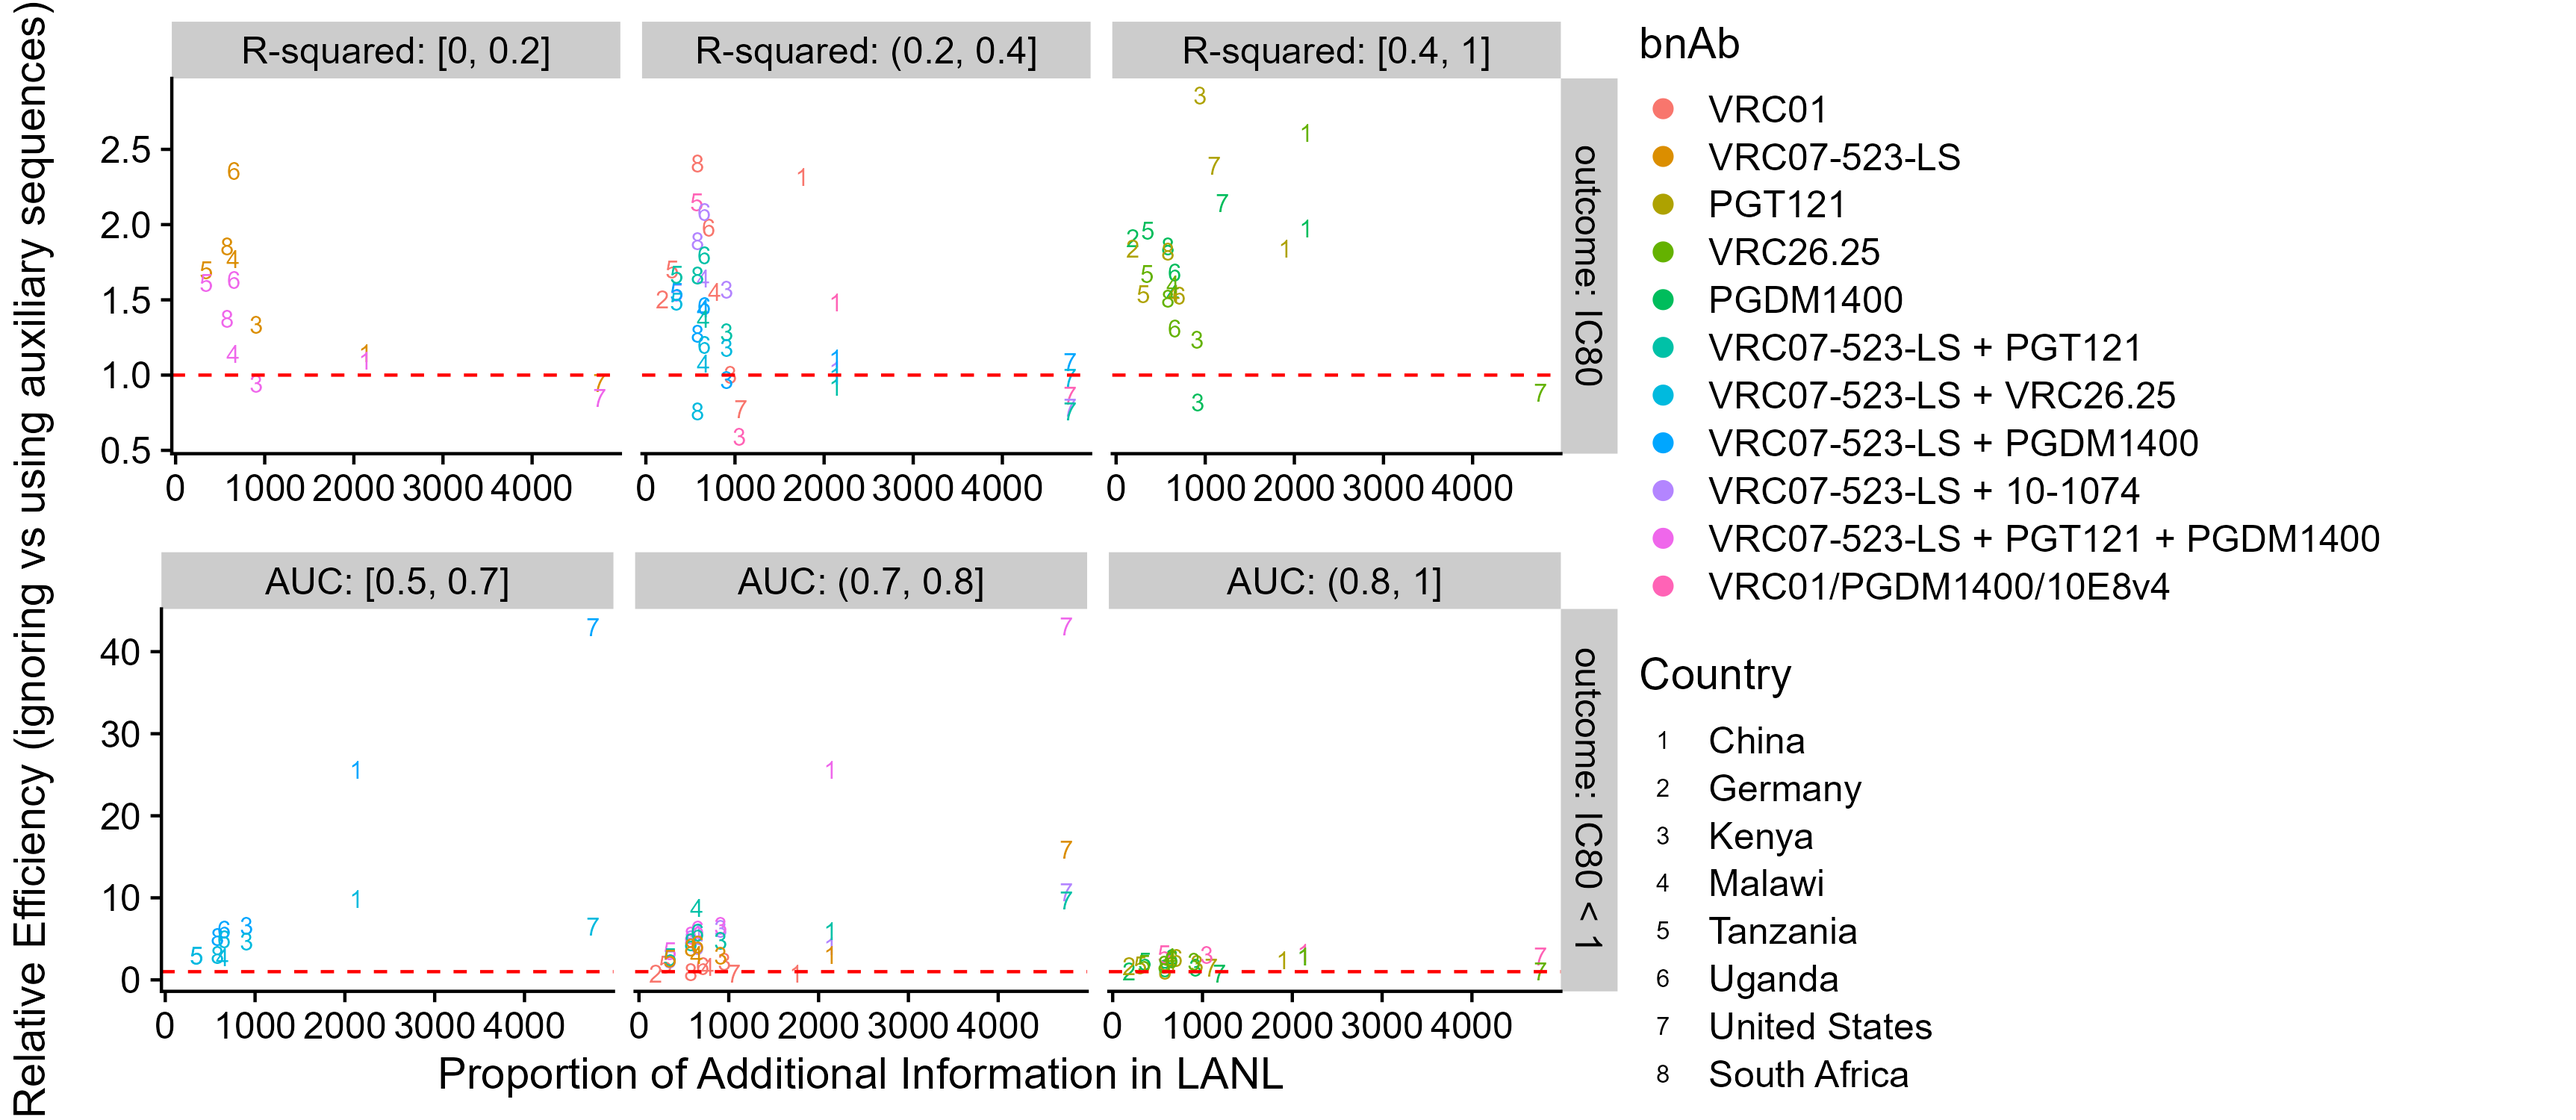
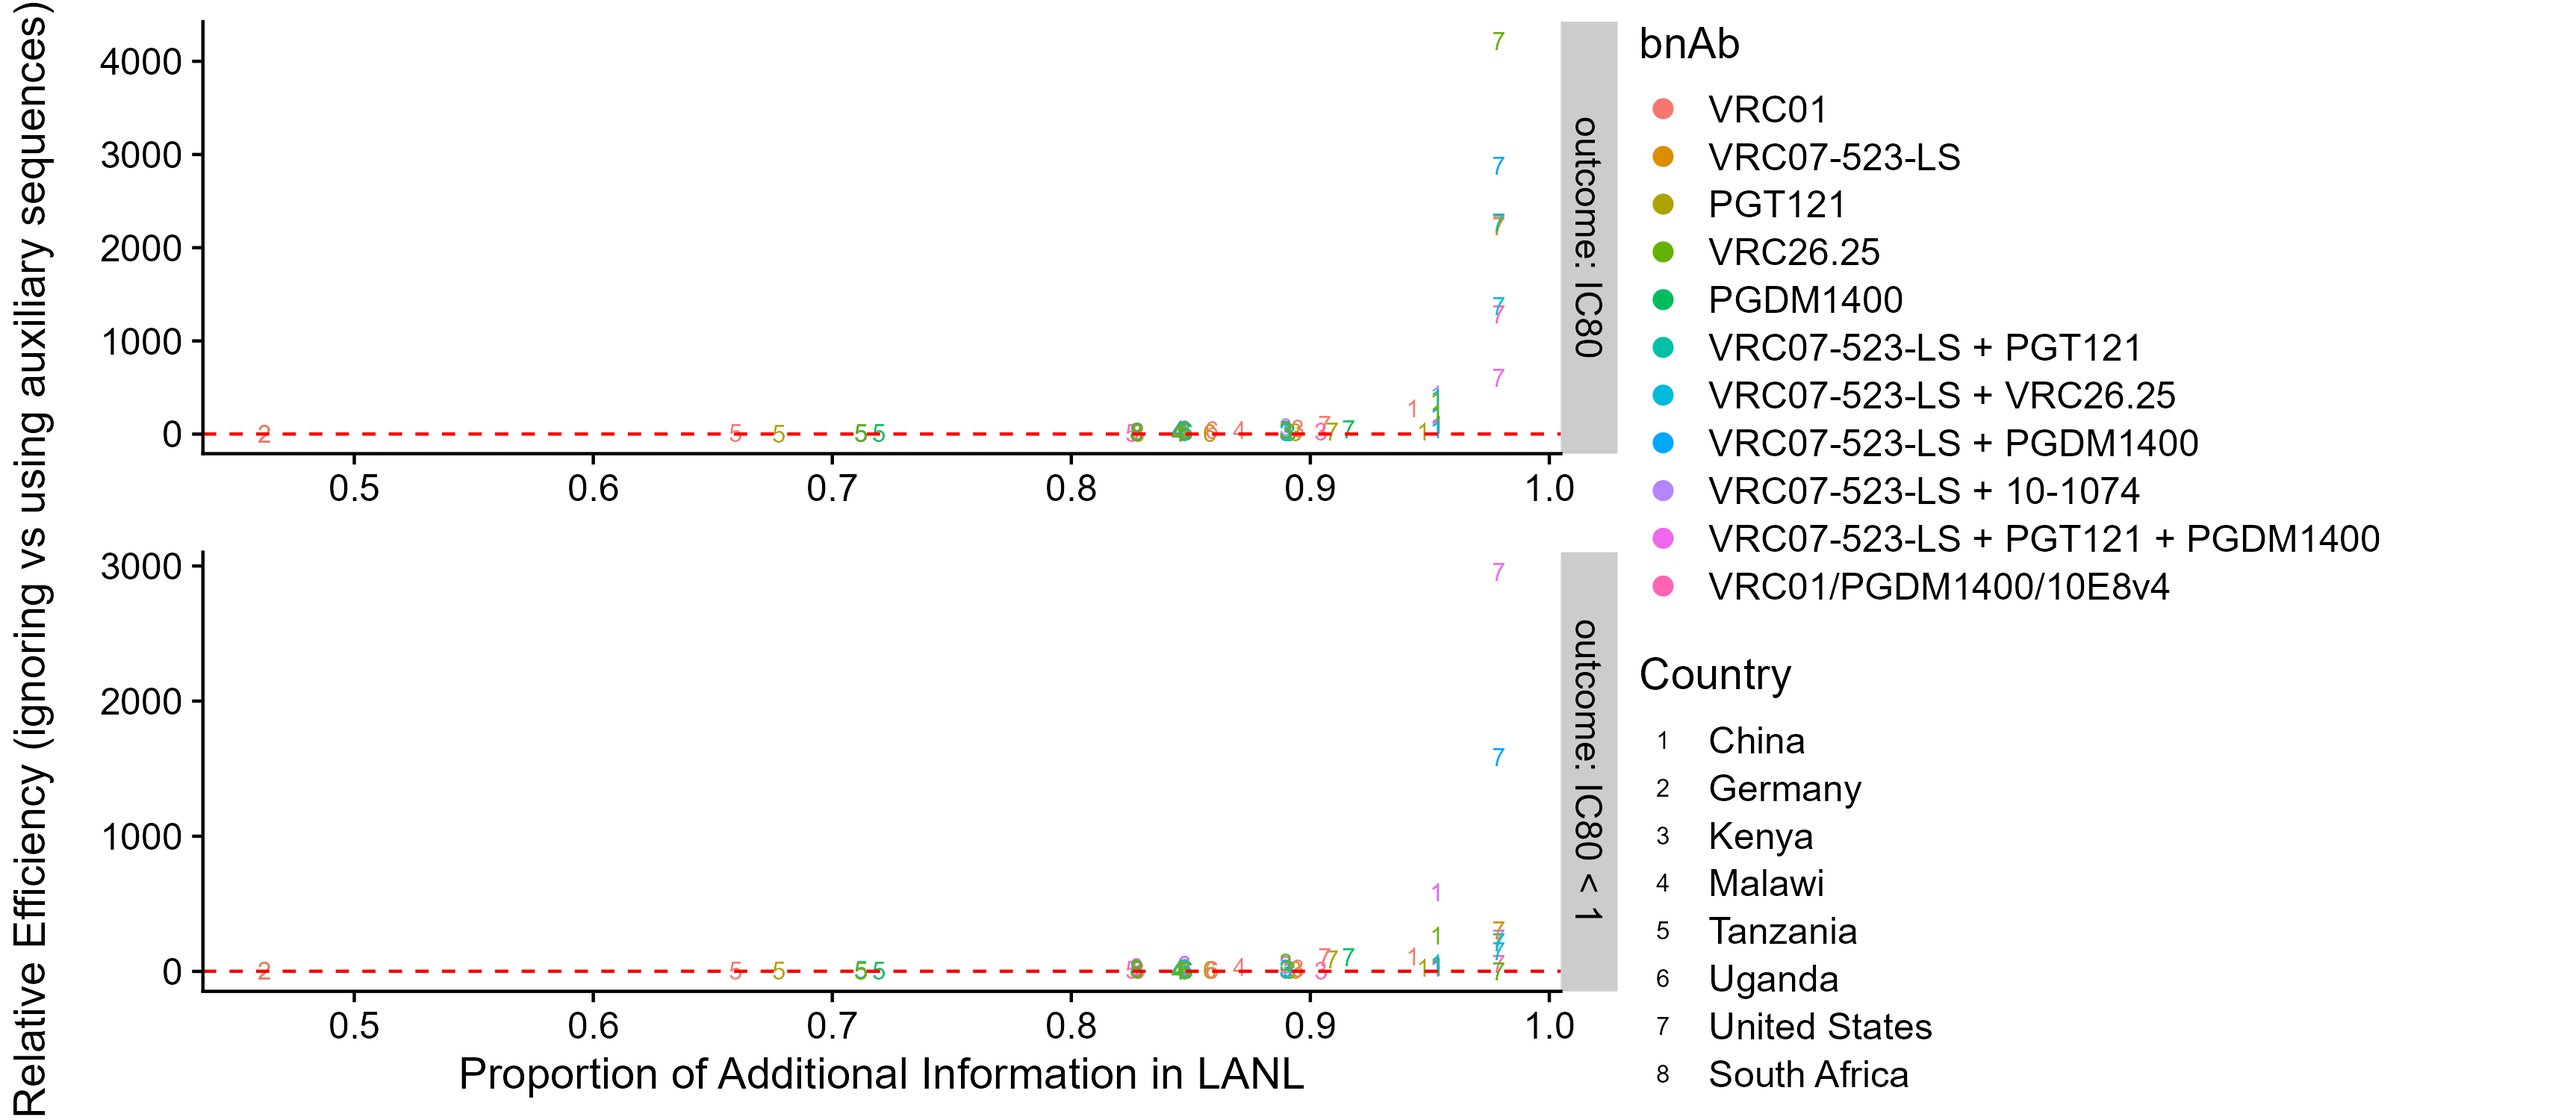
Finalize (?) sim1b plot

diff --git a/writeups/analysis_plan.tex b/writeups/analysis_plan.tex
@@ -163,9 +163,10 @@ For each bnAb regimen and outcome considered in Tables~\ref{tab:perf-continuous}
     \item Obtain a non-augmented 95\% percentile bootstrap confidence interval for $\theta$: draw 5000 bootstrap datasets $\{D_{c,b}\}_{b = 1}^{5000}$. On each bootstrap dataset, use $g_n$ to predict using $W_{c,b}$, then obtain an estimate $\theta_{n,1,b}$ using data with $R_{c,b} = 1$, and take the 2.5th and 97.5th percentiles of $\theta_{n,1,b}$;
     \item Obtain an augmented 95\% percentile bootstrap confidence interval for $\theta$: draw 5000 bootstrap datasets $\{D_{c,b}\}_{b = 1}^{5000}$. On each bootstrap dataset, use $g_n$ to predict using $W_{c,b}$, then obtain an estimate $\theta_{n,2,b}$ using the entire dataset, and take the 2.5th and 97.5th percentiles of $\theta_{n,2,b}$;
     \item Compute the width of each 95\% CI;
-    \item Compute the relative efficiency as the ratio of the squared non-augmented width to the squared augmented width.
+    \item Compute the relative efficiency as the ratio of the squared non-augmented CI width to the squared augmented CI width.
   \end{enumerate}
 \end{enumerate}
+We display the results in a two-row plot, with the rows corresponding to continuous IC$_{80}$ and the binary indicator that IC$_{80} < 1$. The horizontal axis of each plot is the proportion of additional information in LANL compared to CATNAP, defined as $(\#\{\text{sequences in LANL}\} - \#\{\text{sequences in CATNAP}\}) / \#\{\text{sequences in LANL}\}$; the vertical axis is the relative efficiency, defined as the ratio of the squared CI width of the non-augmented estimator to the squared CI width of the augmented estimator.
 
 \section{Simulation: Sieve analysis}
 
